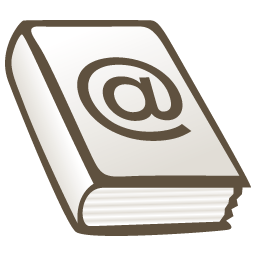
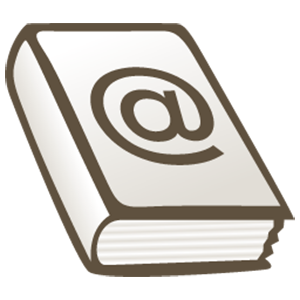
界面美化

diff --git a/src/com/tc/vd/VdApplication.java b/src/com/tc/vd/VdApplication.java
@@ -257,7 +257,7 @@ public class VdApplication extends Application {
 
         try {
             SystemTray tray = SystemTray.getSystemTray();
-            String icon = System.getProperty("res.css.skin.path") + File.separator + "images/helpDoc.png";
+            String icon = System.getProperty("res.css.skin.path") + File.separator + "images/VD16X16.png";
             File iconFile = new File(icon);
             String appTitle = System.getProperty("app.title");
             trayIcon = new TrayIcon(Toolkit.getDefaultToolkit().getImage(iconFile.getAbsolutePath()), appTitle, popupMenu);

diff --git a/src/com/tc/vd/controller/StageController.java b/src/com/tc/vd/controller/StageController.java
@@ -82,7 +82,7 @@ public class StageController {
      * @throws FileNotFoundException
      */
     private void loadIcon(Stage stage) throws FileNotFoundException {
-        String icon = System.getProperty("res.css.skin.path") + File.separator + "images/helpDoc.png";
+        String icon = System.getProperty("res.css.skin.path") + File.separator + "images/VD.png";
         File iconFile = new File(icon);
         Image iconImg = new Image(new FileInputStream(iconFile));
         stage.getIcons().add(iconImg);//这里可以设置标题图标也可以设置任务栏图标
